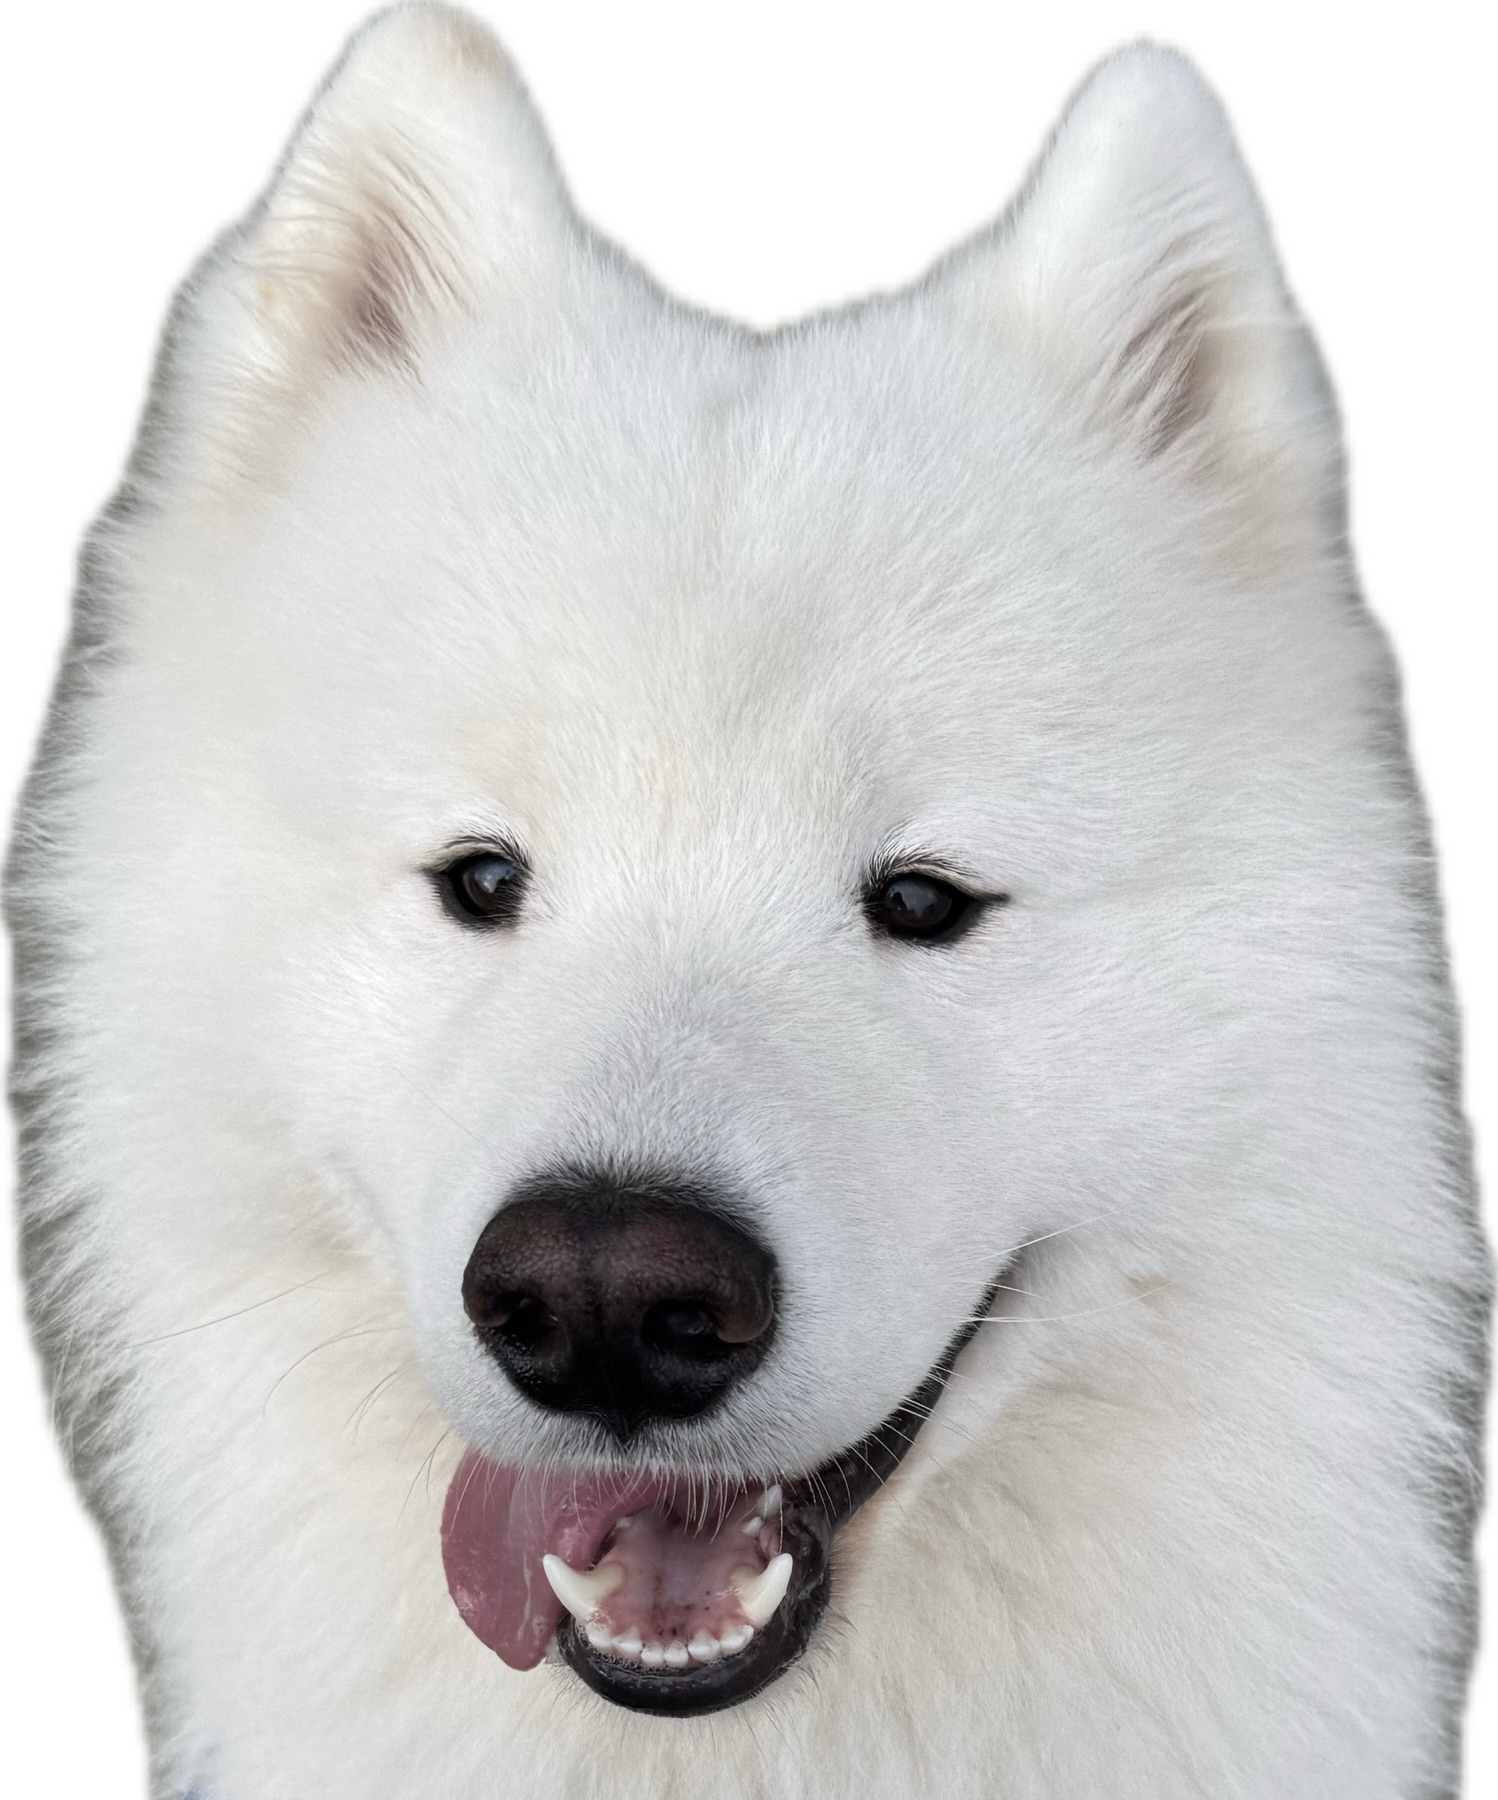
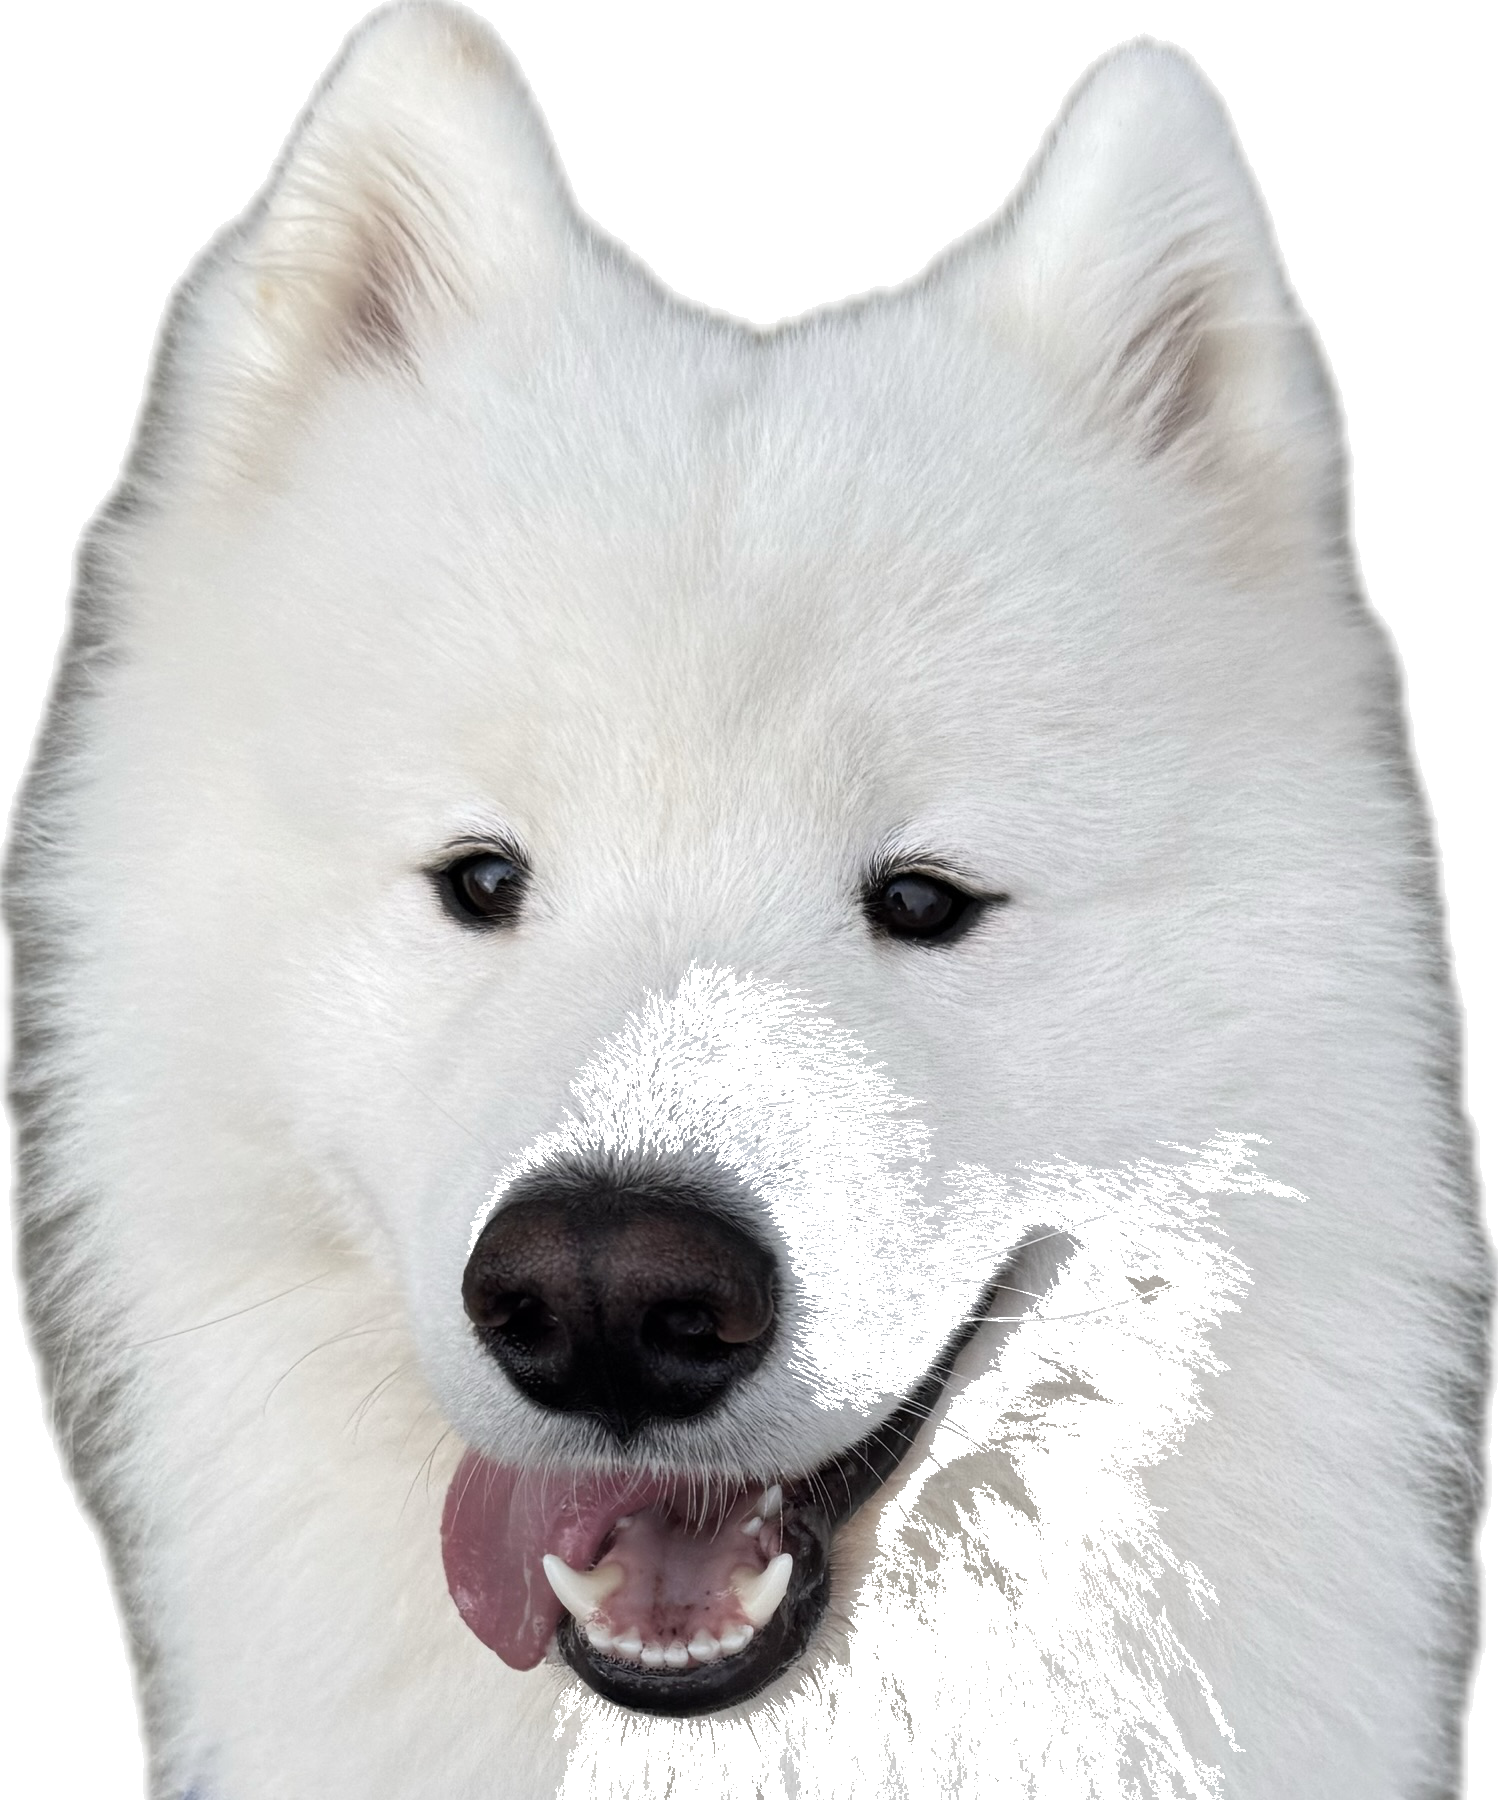
Add README and fix happy face cutout transparency.
Document the live site link and remove the white background from the masthead happy face PNG.

Changed region(s): [[0.3378, 0.5289, 0.8598, 1.0], [0.3071, 0.6533, 0.3378, 0.6844]]

diff --git a/README.md b/README.md
@@ -1,0 +1,32 @@
+# Zero
+
+This is the official specimen record for Zero, the goodest little boy in the world. He is a Samoyed in San Francisco who goes by many names, loves head massages, and has strong opinions about harnesses.
+
+**Live site:** https://saraxlinnea.github.io/zero/
+
+## What's on the site
+
+- Profile, tricks, breed facts, photo gallery, and tick tracker
+- Cutouts of Zero in various dignified poses
+- A record of his biggest adventures
+
+## Run locally
+
+```bash
+npm install
+npm run dev
+```
+
+Open http://localhost:5173/zero/
+
+## Add photos
+
+Drop new images in `Photos/`, then run:
+
+```bash
+npm run photos
+```
+
+## Deploy
+
+Pushes to `main` deploy automatically to GitHub Pages.